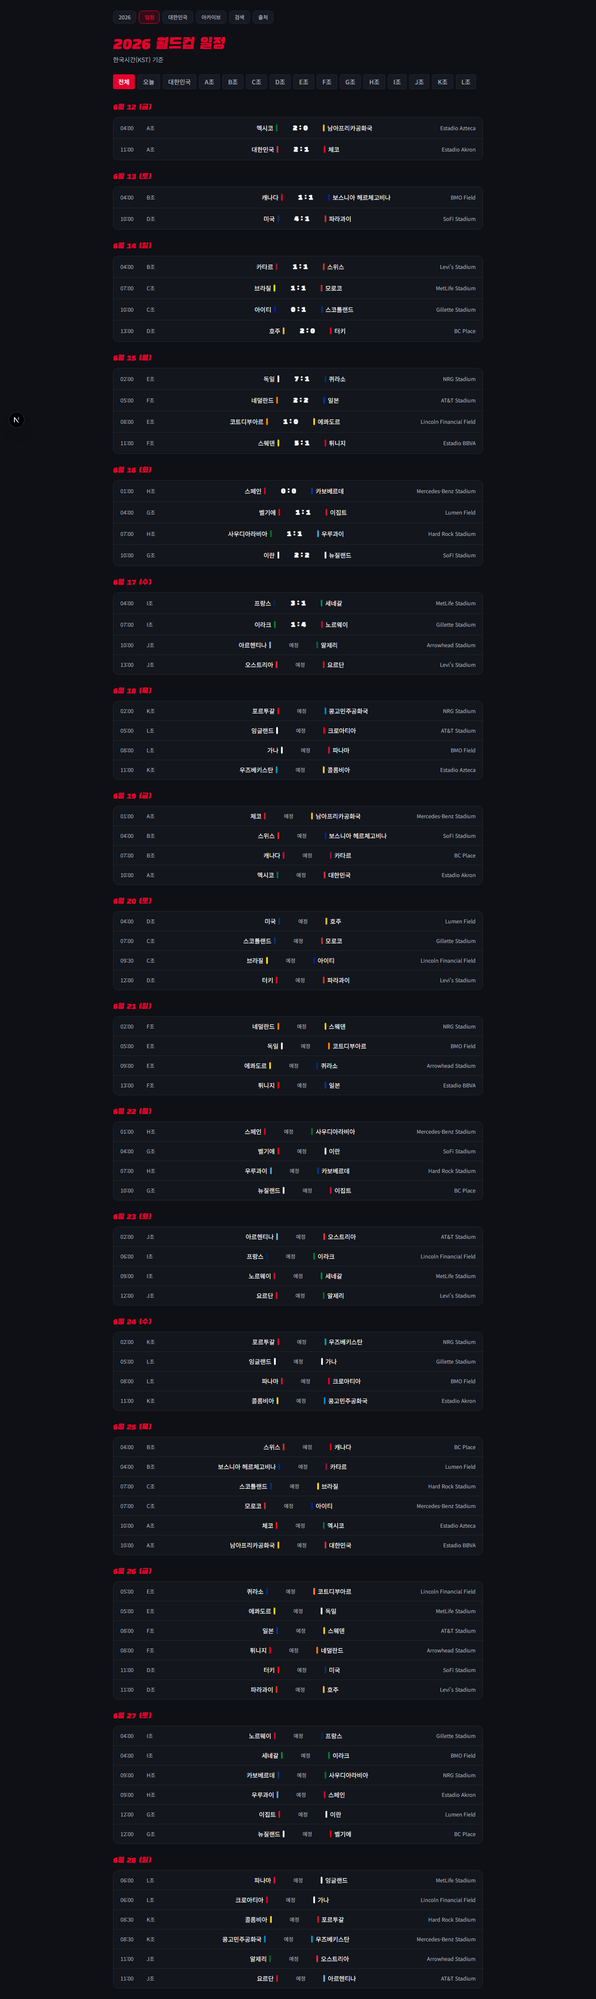
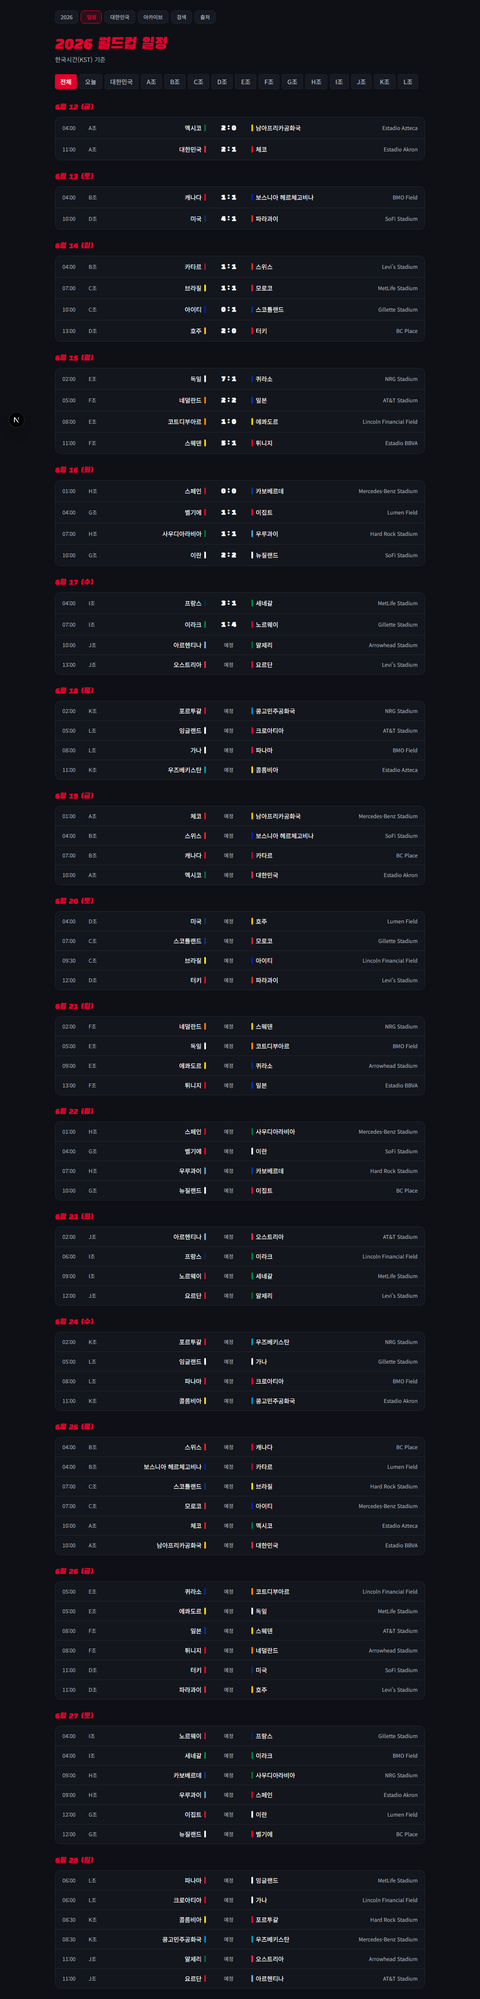
fix(schedule): fixed-width venue column so scores align in a centered column
The venue cell had variable width, so each row's flex-1 home/away split
differed and the score column drifted (1:1 / 1:2 / 3:4 staggered). Pin the
venue to w-36 → constant remaining width → score sits in a fixed centered
column: 나라 1:1 나라 … 경기장.

diff --git a/components/kinetic/ScheduleView.tsx b/components/kinetic/ScheduleView.tsx
@@ -199,8 +199,8 @@ export function ScheduleView({ matches }: Props) {
                     <span className="text-white truncate">{m.away.nameKo}</span>
                   </div>
 
-                  {/* 경기장 */}
-                  <span className="text-muted text-xs hidden md:inline shrink-0 truncate max-w-[140px]">
+                  {/* 경기장 — 고정폭이라야 스코어 칸 x좌표가 행마다 흔들리지 않음 */}
+                  <span className="text-muted text-xs hidden md:block w-36 shrink-0 truncate text-right">
                     {m.stadium}
                   </span>
                 </div>